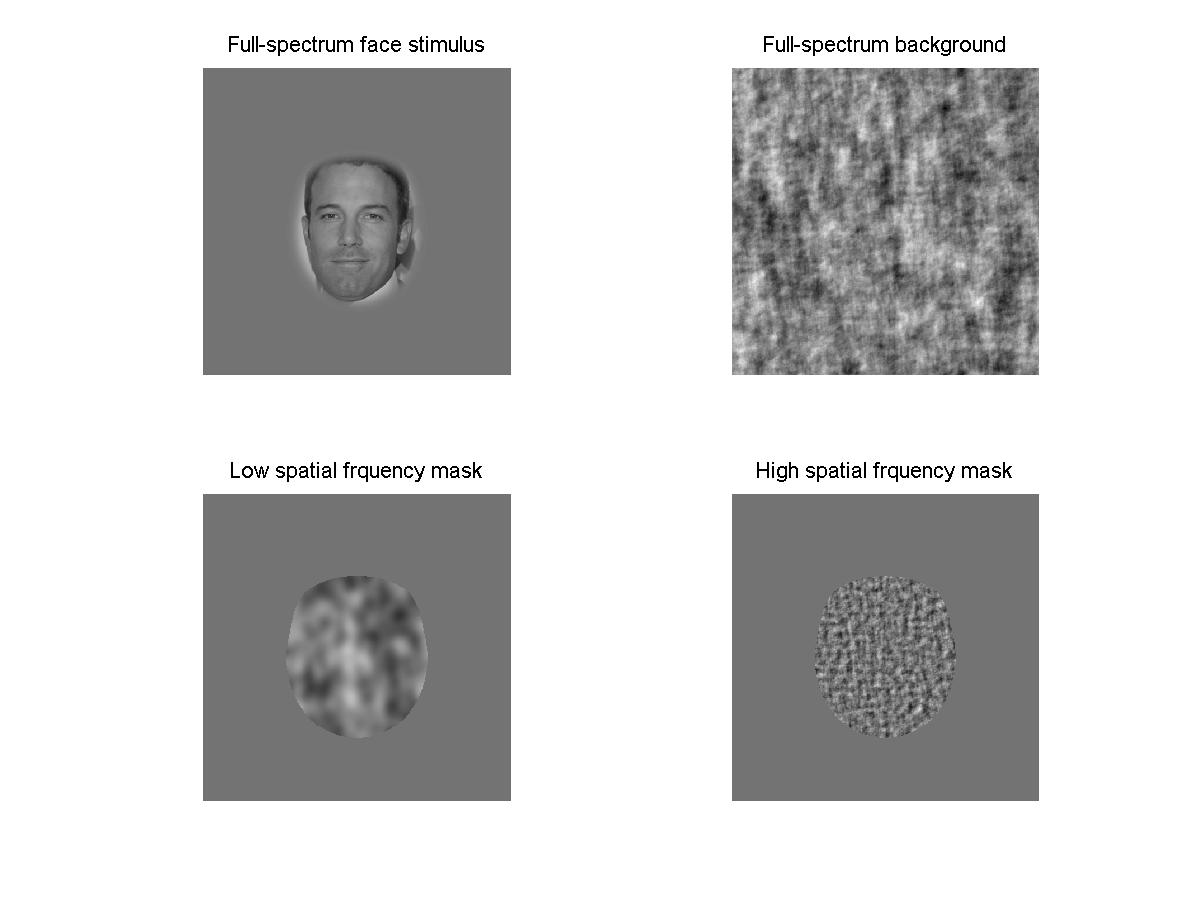
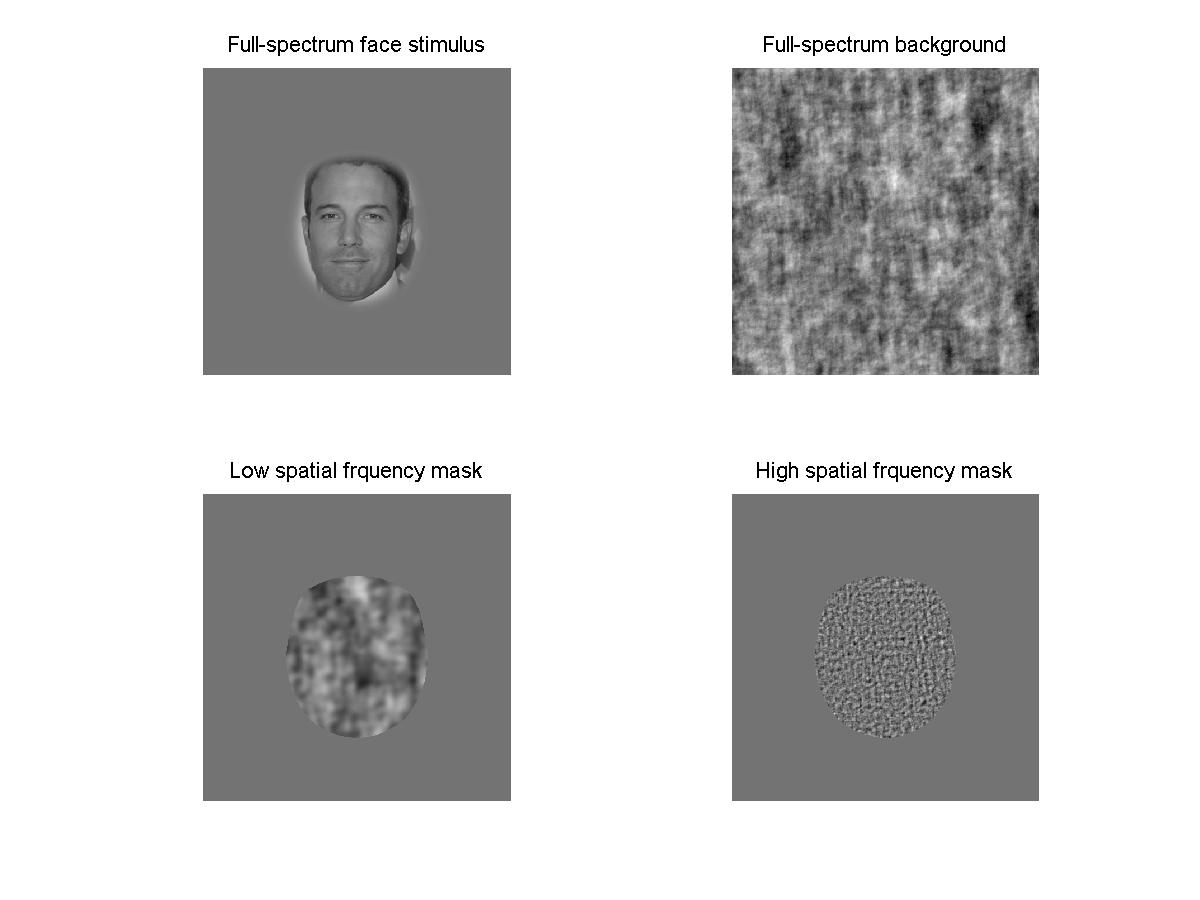
changed SF ranges of stimuli

Changed region(s): [[0.5858, 0.0622, 0.8633, 0.4356], [0.6783, 0.6222, 0.8017, 0.84], [0.2158, 0.6222, 0.37, 0.84]]

diff --git a/stimuli_matlab/CTFbeh_CHECK.m b/stimuli_matlab/CTFbeh_CHECK.m
@@ -1,0 +1,86 @@
+%%
+%code for checking luminance and contrast for the stimuli
+
+
+close all; clear; clc
+
+basefolder = 'C:/Users/Adminuser/Documents/03_SFmasking/Experiment/stimuli_matlab/';
+outfolder_stim = [basefolder 'finalstim/stimuli/'];
+outfolder_back = [basefolder 'finalstim/background/'];
+load([basefolder 'CTFbeh_BLEND.mat'])
+addpath(basefolder)
+%inact faces:       imshow(imset.eq_stim{2})
+%negated faces:     imshow(imset.neg_stim{1})
+%scrambled faces:   imshow(imset.scr_stim{1})
+%masks:             imset.mask{thetype,thesf,theim}
+%background:        imset.Back_scr{theframe}
+
+outputmat = 'CTFbeh_CHECK.mat';
+
+
+
+
+
+
+%% CHECK plot luminance and contrast
+% check stimuli first
+clear dataStimLback dataStimCback dataStimLface dataStimCface
+clear vecdataStimLback vecdataStimLface vecdataStimCback vecdataStimCface
+
+%preallocating
+%dataStimLback = zeros(backgrounds,length(finalstim_backpixLC(:,1))); dataStimCback = dataStimLback; dataStimLface = dataStimLback; dataStimCface = dataStimLback;
+%vecdataStimLback = zeros(length(Cond1levels),length(reshape(dataStimCface,numel(dataStimCface),1))); vecdataStimLface = vecdataStimLback; vecdataStimCback = vecdataStimLback; vecdataStimCface = vecdataStimLback;
+
+
+%thestim = 1; %stim, maskLSF, maskHSF
+for thestim = 1:length(stimuli)
+    
+    dataStimLback = finalstim_backpixLC{thestim}(:,1);
+    dataStimCback = finalstim_backpixLC{thestim}(:,2);
+    dataStimLface = finalstim_facepixLC{thestim}(:,1);
+    dataStimCface = finalstim_facepixLC{thestim}(:,2);
+
+   
+    StimLback(thestim,:) = reshape(dataStimLback,numel(dataStimLback),1);
+    StimLface(thestim,:) = reshape(dataStimLface,numel(dataStimLface),1);
+    StimCback(thestim,:) = reshape(dataStimCback,numel(dataStimCback),1);
+    StimCface(thestim,:) = reshape(dataStimCface,numel(dataStimCface),1);
+end
+
+
+close all
+colorsc = hsv(length(stimuli));
+figure
+
+subplot(1,2,1)
+for thetype = 1:length(stimuli) % intact, negated and scrambled
+    plot(StimLface(thetype,:)','-o','Color',colorsc(thetype,:))
+    hold on
+end
+ylim ([0.35 0.55])
+title('Luminance of face pixels across images and blocks')
+legend('Stimuli','LSF mask','HSF mask')
+text(4,0.51,'Stimuli')
+text(20,0.51,['mean: ' num2str(mean(StimLface(1,:))) ', std: ' num2str(std(StimLface(1,:)))])
+text(4,0.50,'LSF mask')
+text(20,0.50,['mean: ' num2str(mean(StimLface(2,:))) ', std: ' num2str(std(StimLface(2,:)))])
+text(4,0.49,'HSF mask')
+text(20,0.49,['mean: ' num2str(mean(StimLface(3,:))) ', std: ' num2str(std(StimLface(3,:)))])
+
+
+subplot(1,2,2)
+for thetype = 1:length(stimuli) % intact, negated and scrambled
+    plot(StimCface(thetype,:)','-o','Color',colorsc(thetype,:))
+    hold on
+end
+ylim ([0.05 0.15])
+xlim ([1 80])
+title('Contrast of face pixels across images and blocks')
+legend('Stimuli','LSF mask','HSF mask')
+text(4,0.125,'Stimuli')
+text(20,0.125,['mean: ' num2str(mean(StimCface(1,:))) ', std: ' num2str(std(StimCface(1,:)))])
+text(4,0.120,'LSF mask')
+text(20,0.120,['mean: ' num2str(mean(StimCface(2,:))) ', std: ' num2str(std(StimCface(2,:)))])
+text(4,0.115,'HSF mask')
+text(20,0.115,['mean: ' num2str(mean(StimCface(3,:))) ', std: ' num2str(std(StimCface(3,:)))])
+

diff --git a/stimuli_matlab/CTFbeh_BLEND.m b/stimuli_matlab/CTFbeh_BLEND.m
@@ -10,12 +10,12 @@ outfolder = [basefolder 'finalstim/'];
 outfolder_stim = [basefolder 'finalstim/stimuli/'];
 outfolder_back = [basefolder 'finalstim/background/'];
 outfolder_mask = [basefolder 'finalstim/masks/'];
-load([basefolder 'CTFV1_STIM.mat'])
+load([basefolder 'CTFbeh_STIM.mat'])
 addpath(basefolder)
 
 backgrounds = 12;
 
-outputmat = 'CTFV1_BLEND.mat';
+outputmat = 'CTFbeh_BLEND.mat';
 
 %%%%%%%%%%%% load this blurry mask
 %%%%%%%%%%%% make sure the face is just as big as the stimuli
@@ -65,14 +65,15 @@ for thestim = 1:length(stimuli) %stim, maskLSF, maskHSF
 
 
         signalim = set{theface};
-        % imshow(signalim)
+        %imshow(signalim)
+
+        signalim(facepixindex) = signalim(facepixindex) - mean2(signalim(facepixindex)); %normalize blend stim part 1
+        signalim(facepixindex) = signalim(facepixindex) / std2(signalim(facepixindex)); %normalize blend stim part 2
+        signalim(facepixindex)	= (signalim(facepixindex)*LC(2)) + LC(1); %desired lum and contrast
         
         blendim = greystim.*(MaskAlpha) + signalim.*(1-MaskAlpha);
-        % imshow(blendim)
-
-        %blendim = blendim - mean2(blendim); %normalize blend stim part 1
-        %blendim = blendim / std2(blendim); %normalize blend stim part 2
-        %blendim	= (blendim*LC(2)) + LC(1); %desired lum and contrast
+        %imshow(blendim)
+        
         fprintf('mean: %f - std: %f - face %d for type: %s blendedddd\n',mean2(blendim),std2(blendim),theface,stimulus) % check contr and lum for the background
         imshow(blendim); pause (0.05)
 

diff --git a/stimuli_matlab/CTFbeh_STIM.m b/stimuli_matlab/CTFbeh_STIM.m
@@ -10,7 +10,7 @@ desired_size = [550 550]; %has to be square
 imagefolder = [basefolder 'celebs_all/'] ;
 nim = dir([imagefolder '*.bmp']);
 
-outputmat = 'CTFV1_STIM.mat';
+outputmat = 'CTFbeh_STIM.mat';
 
 %% prepare face images
 %load the images
@@ -153,7 +153,8 @@ opt.whichfilter = 2;
 %$$$$
 opt.order = 3;
 octwidth = 4;
-maxSF=desired_size(1)/2;
+maxSF=500; %%%%%%%%%%%%%%%%%%%%%%%% changed this for ideal SF range
+%maxSF=desired_size(1)/2;
 gapOct = 0;
 
 SF = [1, 2]; % two sf ranges (lsf/haf)
